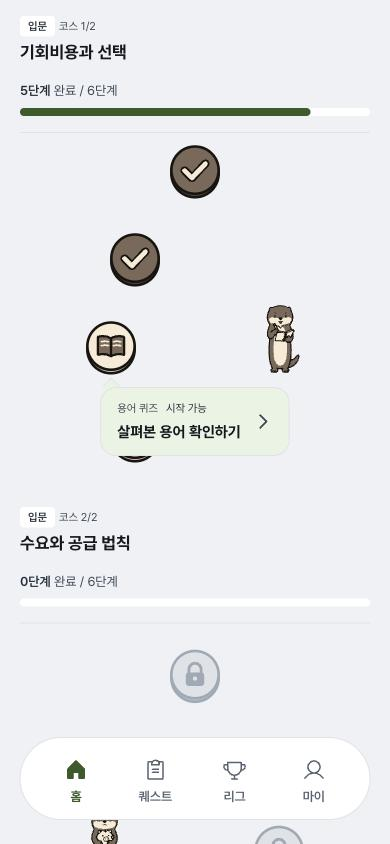
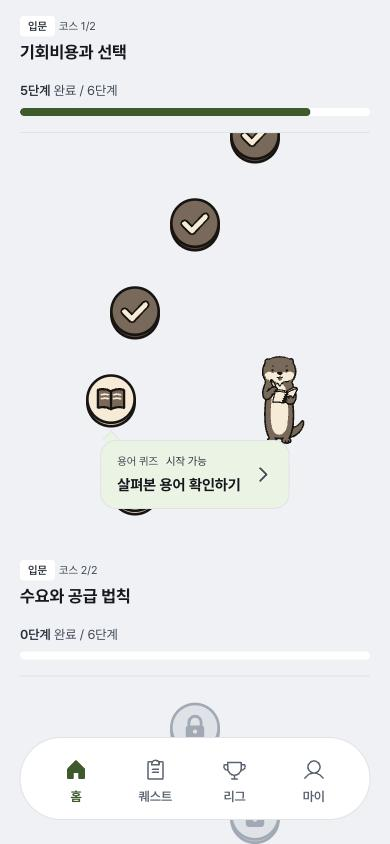
프로필 시트: 수달 5종·배경색 6개를 각각 한 줄로(ul 기본 여백 제거), 선택 링 잘림 수정 / 노드 옆 수달 96px로 키우고 등급 장면은 수달 키 맞춤

diff --git a/src/index.css b/src/index.css
@@ -1091,14 +1091,14 @@ button.home-review-entry { margin-bottom: var(--space-3); padding: var(--space-4
 .my-page-stats.app-card { padding: var(--space-5) 0; }
 .my-profile-avatar { display: flex; flex-shrink: 0; border-radius: 50%; }
 /* 프로필 그림 고르기: 3열, 고른 것은 메인 컬러 테두리 */
-.profile-avatar-options { display: grid; grid-template-columns: repeat(3, minmax(0, 1fr)); gap: var(--space-4) var(--space-2); list-style: none; }
+.profile-avatar-options { display: grid; grid-template-columns: repeat(5, minmax(0, 1fr)); gap: var(--space-2); padding-top: var(--space-2) !important; list-style: none; }
 .profile-avatar-option { display: flex; width: 100%; min-height: var(--size-touch-min); flex-direction: column; align-items: center; gap: var(--space-2); color: var(--color-ink-2); font-size: var(--font-size-label); }
 /* 고른 그림: 버튼 공통 규칙이 box-shadow를 지워서 outline으로 표시 */
 .profile-avatar-option[aria-pressed='true'] .profile-avatar { outline: 3px solid var(--color-accent-line-strong); outline-offset: 2px; }
 .profile-avatar-option[aria-pressed='true'] { color: var(--color-ink); font-weight: var(--font-weight-bold); }
-.profile-avatar-options { margin: 0; padding: 0; }
+.profile-avatar-options { margin: 0; padding-inline: 0; padding-bottom: 0; }
 .profile-bg-title { margin: var(--space-6) 0 var(--space-3); color: var(--color-ink); font-size: var(--font-size-body); font-weight: var(--font-weight-bold); }
-.profile-bg-options { display: flex; flex-wrap: wrap; gap: var(--space-3); list-style: none; }
+.profile-bg-options { display: grid; grid-template-columns: repeat(6, minmax(0, 1fr)); justify-items: center; gap: var(--space-2); margin: 0; padding: var(--space-1) 0 0; list-style: none; }
 .profile-bg-option { width: 44px; height: 44px; border: 1px solid var(--color-line); border-radius: 50%; }
 /* 버튼 공통 규칙이 box-shadow를 지워서 고른 색은 굵은 테두리로 표시한다 */
 .profile-bg-option[aria-pressed='true'] { border: 3px solid var(--color-accent-line-strong); }
@@ -1170,7 +1170,9 @@ button.course-home-rail-card:active { background: var(--color-surface); }
 .course-steps .course-step:nth-child(8n + 3) { --step-offset: 84px; }
 .course-steps .course-step:nth-child(8n + 6), .course-steps .course-step:nth-child(8n + 8) { --step-offset: -60px; }
 .course-steps .course-step:nth-child(8n + 7) { --step-offset: -84px; }
-.course-step-buddy { position: absolute; top: -12px; left: calc(50% + var(--buddy-x, 0px)); z-index: 0; width: 80px; transform: translateX(-50%); pointer-events: none; }
+/* 수달 포즈(그림 높이 109/120)와 등급 장면(101/120)의 수달 키를 맞춘다: 장면은 8% 키우고 바닥선을 맞춰 4px 올린다 */
+.course-step-buddy { position: absolute; top: -12px; left: calc(50% + var(--buddy-x, 0px)); z-index: 0; width: 96px; transform: translateX(-50%); pointer-events: none; }
+.course-step-buddy[src*='/league/'] { width: 104px; margin-top: -4px; }
 .course-steps .course-step:nth-child(8n + 3) .course-step-buddy { --buddy-x: -88px; }
 .course-steps .course-step:nth-child(8n + 7) .course-step-buddy { --buddy-x: 88px; }
 /* 돌 사이 세로 간격(말풍선 높이 64px가 다음 돌과 겹치지 않을 만큼) */

diff --git a/src/components/mypage/ProfileAvatarSheet.tsx b/src/components/mypage/ProfileAvatarSheet.tsx
@@ -19,7 +19,7 @@ export const ProfileAvatarSheet = ({ open, nickname, current, onClose, onSelect 
           {PROFILE_AVATARS.map(a => (
             <li key={a.id}>
               <button type="button" className="profile-avatar-option" aria-pressed={avatarId(current) === a.id} onClick={() => onSelect(avatarValue(a.id, currentBg))}>
-                <ProfileAvatar name={nickname} size={64} avatar={avatarValue(a.id, currentBg)} />
+                <ProfileAvatar name={nickname} size={56} avatar={avatarValue(a.id, currentBg)} />
                 <span>{a.label}</span>
               </button>
             </li>
